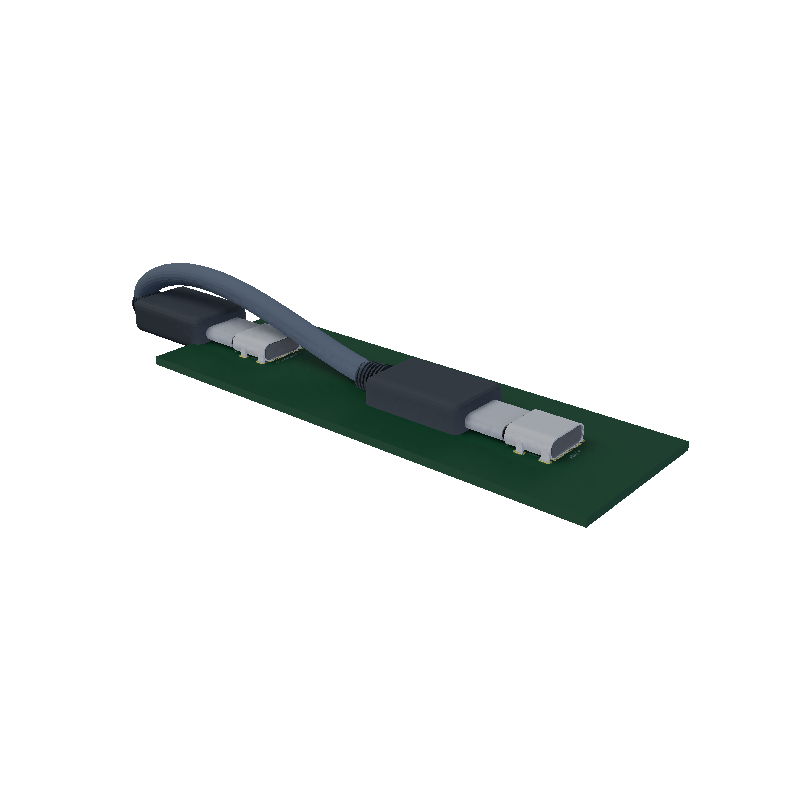
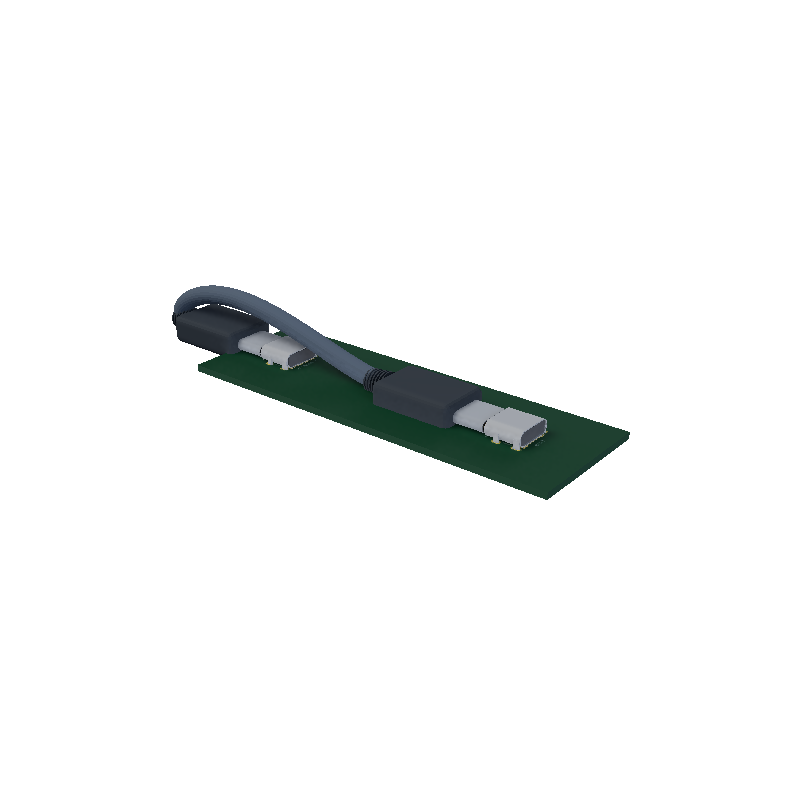
Give the cable bundle room to bend outside the PCB

Changed region(s): [[0.1562, 0.3125, 0.875, 0.6562]]

diff --git a/scripts/generate-assembly-previews.ts b/scripts/generate-assembly-previews.ts
@@ -86,11 +86,11 @@ try {
           width: 800,
           height: 800,
           camPos: name.startsWith("assembly-cable")
-            ? [100, 70, 120]
+            ? [120, 90, 150]
             : [95, 35, 95],
           lookAt: name.startsWith("assembly-cable")
             ? name === "assembly-cable-1"
-              ? [-30, -14, 0]
+              ? [-40, -14, 0]
               : [0, 0, 0]
             : [0, -25, 0],
           fov: 40,
